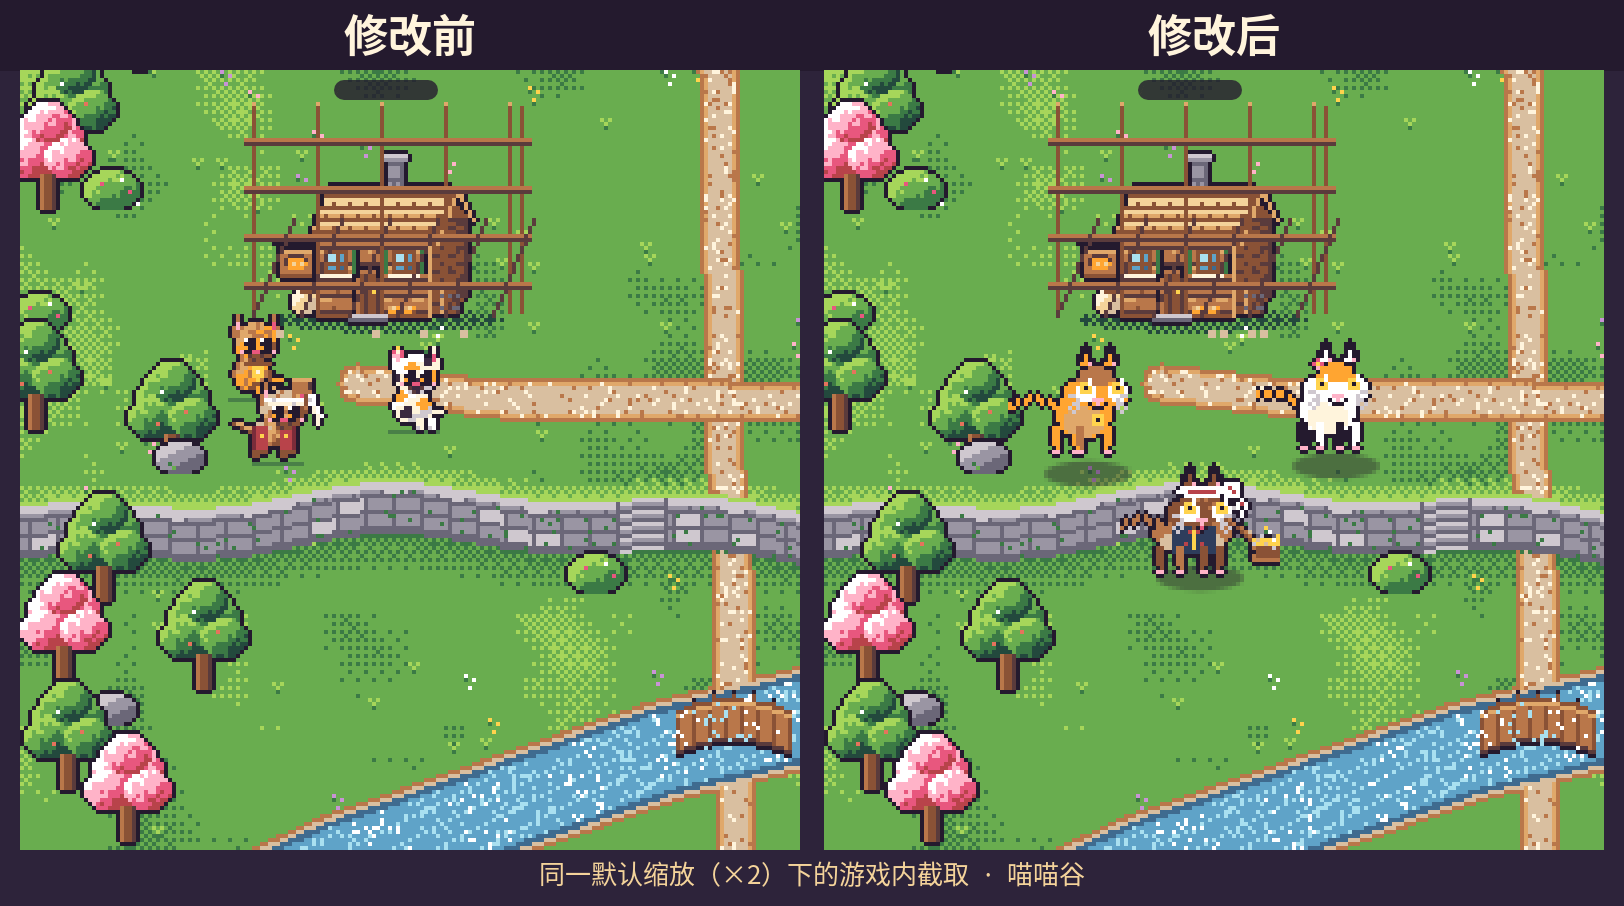
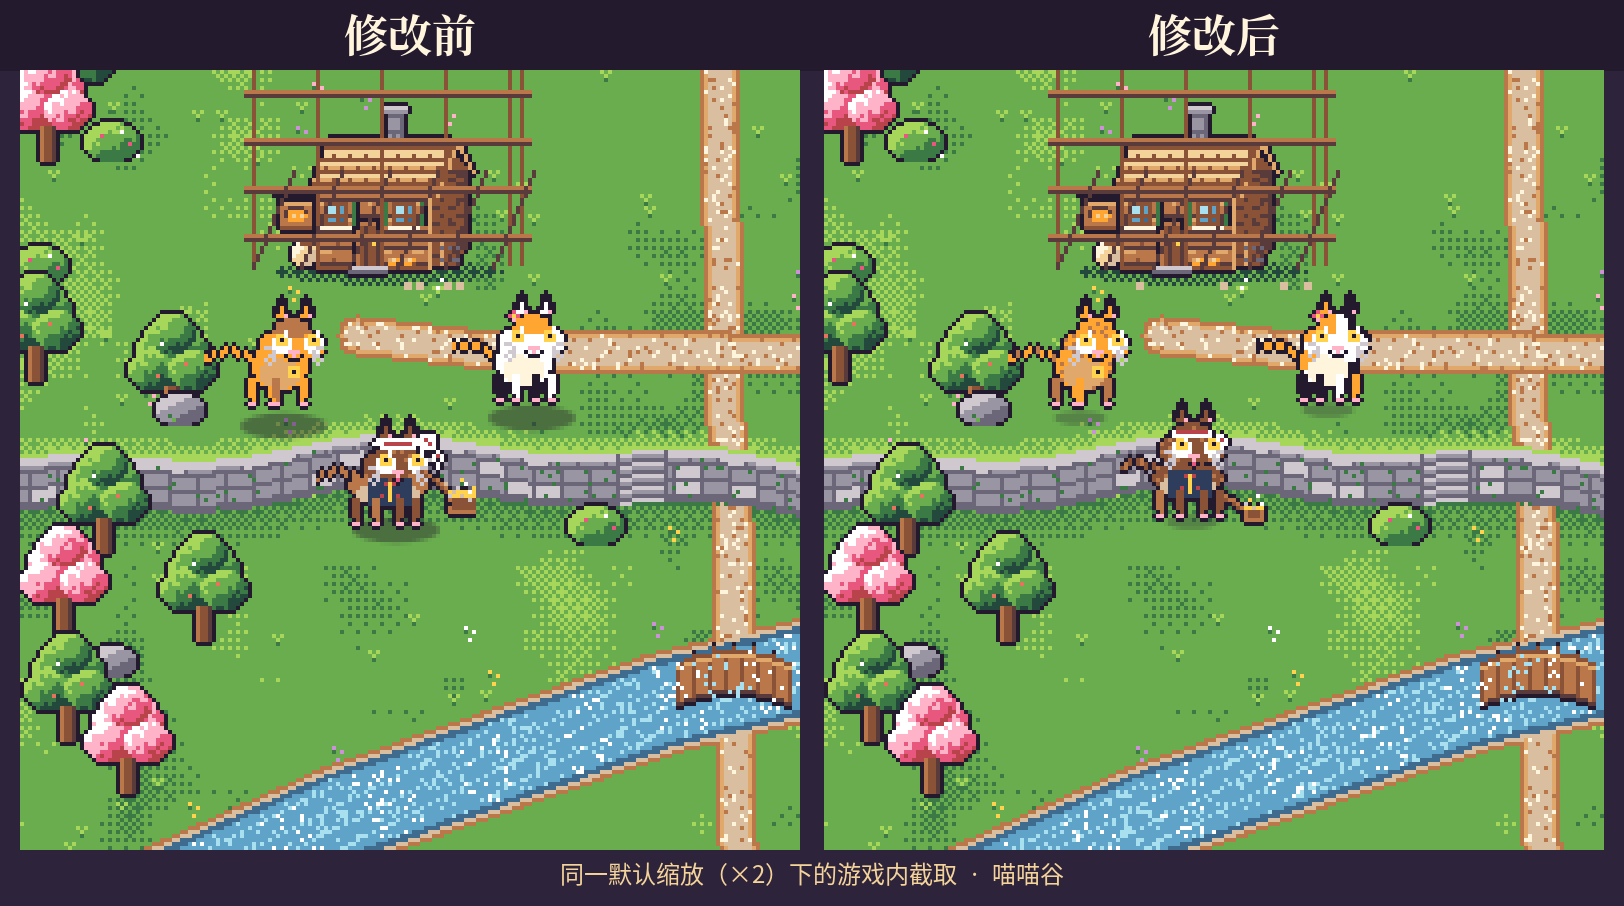
Stabilize cat coats and tidy the builder hammer, shadows, and name labels.
Coat patches are now a fixed body-anchored mask, the mallet stays in the paws except at the top of the anticipation, and names only appear well above the head when zoomed in close.

diff --git a/src/cats.js b/src/cats.js
@@ -24,29 +24,38 @@ const SHAPE={
   sturdy: {head:0,body:1,ear:0,leg:-1}
 };
 
-/* ---------- coat helpers ---------- */
-function furAt(coat,x,y,base){
+/* ---------- coat helpers ----------
+ * Pattern is evaluated in body/head-local coordinates so patches and
+ * stripes stay painted on the cat as it bobs, leans, or squashes.
+ */
+function furAt(coat,lx,ly,base,part){
   const m=coat.mark;
-  if(m==='stripes'){
-    if(((x+y*2)&3)===0 && y>2) return coat.dark;
-  }
-  if(m==='tabby'){
-    if(((x+y)&3)===0 && y>3) return coat.dark;
+  if(m==='stripes'||m==='tabby'){
+    if(part==='tail') return base;
+    if(((lx+ly*2)&3)===0 && ly>-2) return coat.dark;
+    return base;
   }
   if(m==='calico'){
-    const h=(x*7+y*13)&7;
-    if(h===0||h===1) return C.ORNG;
-    if(h===2) return C.INK;
-  }
-  if(m==='points'){
-    /* ears / muzzle / paws get dark points later by region */
-    return base;
-  }
-  if(m==='tuxedo'){
-    /* body belly is already white; face gets a white muzzle in head() */
-    return base;
+    /* Designed, stable patches — white base, orange left, black right. */
+    if(part==='head'){
+      if(ly>=2) return C.WHITE;           /* muzzle stays white */
+      if(lx<=-1 && ly<=1) return C.ORNG;  /* left forehead */
+      if(lx>=3 && ly<=0) return C.INK;    /* right crown */
+      return C.WHITE;
+    }
+    if(part==='body'){
+      if(lx<=-2 && ly<=1) return C.ORNG;  /* left shoulder */
+      if(lx>=2 && ly>=0) return C.INK;    /* right hip */
+      return C.WHITE;
+    }
+    if(part==='tail') return base; /* shaft/tip set by the tail itself */
+    if(part==='leg') return base;
+    return C.WHITE;
   }
   return base;
+}
+function furFn(coat,ax,ay,base,part){
+  return (u,v,x,y)=>furAt(coat,x-ax,y-ay,base,part);
 }
 
 /* ---------- silhouette outline (4-neigh, #241a2e) ---------- */
@@ -61,12 +70,13 @@ function shadow(s,cx,cy,rx,ry){
 /* Ears: two tall triangles. dx shifts with pose (squash/stretch). */
 function ears(s,hx,hy,coat,shp,dx,dy,foldL,foldR){
   const e=2+shp.ear;
-  const ink=C.INK, fur=coat.fur, inn=coat.ear, dark=coat.dark;
-  const point=coat.mark==='points'?dark:fur;
+  const ink=C.INK, inn=coat.ear, dark=coat.dark;
+  /* Calico: left ear orange, right ear black. Siamese: both dark points. */
   function one(side,fold){
     const x=hx+side*(3+shp.head);
     const y=hy-5+dy+(fold?1:0);
-    /* tall triangle, 2px tip */
+    const point=coat.mark==='points'?dark:coat.mark==='calico'?(side<0?C.ORNG:C.INK):coat.fur;
+    /* tall triangle, 2px tip — sits clearly above a forehead band */
     s.set(x,y-e-2,ink); s.set(x+side,y-e-1,ink);
     s.set(x,y-e-1,point);
     s.set(x-1,y-e,ink); s.set(x,y-e,point); s.set(x+1,y-e,ink);
@@ -84,11 +94,11 @@ function head(s,hx,hy,coat,shp,blink,look,mood,tilt){
   const hr=5+shp.head;
   const fur=coat.fur, dark=coat.dark, belly=coat.belly;
   const faceFur=(coat.mark==='points'||coat.mark==='tuxedo')?belly:fur;
-  s.ell(hx,hy+tilt,hr,5,furAt(coat,hx,hy,fur));
-  /* cheeks */
-  s.ell(hx-5,hy+2,3,3,furAt(coat,hx-5,hy,faceFur));
-  s.ell(hx+5,hy+2,3,3,furAt(coat,hx+5,hy,faceFur));
-  /* muzzle */
+  s.ell(hx,hy+tilt,hr,5,furFn(coat,hx,hy,fur,'head'));
+  /* cheeks — same head-local pattern, so patches don't jump */
+  s.ell(hx-5,hy+2,3,3,furFn(coat,hx,hy,faceFur,'head'));
+  s.ell(hx+5,hy+2,3,3,furFn(coat,hx,hy,faceFur,'head'));
+  /* muzzle always the face fur (white / cream), never a crawling patch */
   s.ell(hx,hy+3,4,3,faceFur);
   /* tabby M */
   if(coat.mark==='stripes'||coat.mark==='tabby'){
@@ -149,7 +159,7 @@ function body(s,bx,by,coat,shp,squash,lean){
   const w=7+shp.body+Math.max(0,squash);
   const h=6+shp.body-squash;
   const x=bx+lean;
-  s.ell(x,by,w,h,furAt(coat,x,by,coat.fur));
+  s.ell(x,by,w,h,furFn(coat,x,by,coat.fur,'body'));
   s.ell(x,by+2,Math.max(3,w-2),Math.max(3,h-2),coat.belly);
 }
 
@@ -163,8 +173,13 @@ function legs(s,bx,by,coat,shp,paws,sit){
     const lift=p.lift|0;
     const y=y0-lift;
     const l=sit?Math.max(2,len-2):len;
-    s.vl(x,y,l,furAt(coat,x,y,fur));
-    s.vl(x+(p.x>0?1:-1),y,Math.max(2,l-1),furAt(coat,x,y,fur));
+    /* Calico legs are fixed by side: left/hind dark, right/front white or orange. */
+    let col=fur;
+    if(coat.mark==='calico') col=p.x<0?C.INK:(p.x>3?C.ORNG:C.WHITE);
+    else if(coat.mark==='points') col=dark;
+    else col=furAt(coat,p.x,3,fur,'leg');
+    s.vl(x,y,l,col);
+    s.vl(x+(p.x>0?1:-1),y,Math.max(2,l-1),col);
     /* paw pad */
     s.set(x,y+l,paw); s.set(x+(p.x>0?1:-1),y+l,paw);
     if(lift>2){
@@ -176,14 +191,17 @@ function legs(s,bx,by,coat,shp,paws,sit){
 
 /* Tail. base at body rear. curve is a list of {dx,dy} from base. */
 function tail(s,bx,by,coat,pts){
-  const fur=furAt(coat,bx,by,coat.fur);
-  const tip=coat.mark==='points'?coat.dark:fur;
-  let x=bx,y=by;
+  /* Stable colours along the tail, never hashed by screen position. */
+  const n=pts.length;
   pts.forEach((p,i)=>{
-    x=bx+p.x; y=by+p.y;
-    const col=i>pts.length-3?tip:fur;
+    const x=bx+p.x, y=by+p.y;
+    let col=coat.fur;
+    if(coat.mark==='calico') col=i>=n-2?C.INK:C.ORNG;
+    else if(coat.mark==='points') col=i>=n-3?coat.dark:coat.fur;
+    else if(coat.mark==='stripes'||coat.mark==='tabby') col=(i%3===0)?coat.dark:coat.fur;
+    else if(coat.mark==='tuxedo') col=coat.fur;
     s.set(x,y,col); s.set(x,y-1,col);
-    if(i===pts.length-1){ s.set(x,y,tip); s.set(x+1,y,tip); }
+    if(i===n-1){ s.set(x,y,col); s.set(x+1,y,col); }
   });
 }
 
@@ -205,26 +223,18 @@ function accessory(s,hx,hy,acc,coat){
 
 /* ねじり鉢巻: white twist, a knot blob, two ribbon tails. */
 function hachimaki(s,hx,hy,knotSide,flop){
-  /* band around forehead, with a red twist stripe */
-  s.hl(hx-6,hy-4,13,C.WHITE);
-  s.hl(hx-5,hy-5,11,C.WHITE);
-  s.hl(hx-4,hy-3,9,C.WHITE);
-  s.hl(hx-3,hy-4,7,C.RD1);
-  /* knot blob on the side — a visible bun + two hanging tails */
-  const d=knotSide, kx=hx+d*7, ky=hy-4;
-  s.rect(kx-1,ky-2,4,4,C.WHITE);
-  s.set(kx,ky-1,C.RD1); s.set(kx+1,ky,C.RD1);
-  /* tail A */
-  s.set(kx+d*3,ky+1+flop,C.WHITE);
-  s.set(kx+d*4,ky+2+flop,C.WHITE);
-  s.set(kx+d*4,ky+3+flop,C.WHITE);
-  s.set(kx+d*3,ky+4+flop,C.WHITE);
-  s.set(kx+d*3,ky+2+flop,C.RD1);
-  /* tail B, slightly behind/offset */
-  s.set(kx+d*2,ky+2+flop,C.WHITE);
-  s.set(kx+d*2,ky+3+flop,C.WHITE);
-  s.set(kx+d*3,ky+5+flop,C.WHITE);
-  s.set(kx+d*1,ky+3+flop,C.ST2);
+  /* Clean 2px white forehead band, sitting BELOW the ear tips, not over the eyes. */
+  s.hl(hx-5,hy-3,10,C.WHITE);
+  s.hl(hx-5,hy-2,10,C.WHITE);
+  s.hl(hx-4,hy-3,8,C.RD1); /* one thin red twist */
+  /* Small knot just past the right of the band, two short tails. */
+  const d=knotSide||1, kx=hx+d*6, ky=hy-2;
+  s.set(kx,ky,C.WHITE); s.set(kx+d,ky,C.WHITE);
+  s.set(kx,ky+1,C.WHITE); s.set(kx+d,ky+1,C.RD1);
+  const f=flop||0;
+  s.set(kx+d*2,ky+1+f,C.WHITE);
+  s.set(kx+d*2,ky+2+f,C.WHITE);
+  s.set(kx+d,ky+2+f,C.WHITE);
 }
 
 /* Happi vest: indigo with a warm opening so it doesn't melt into brown fur. */
@@ -238,31 +248,23 @@ function happi(s,bx,by,lean){
   s.set(x-2,by+2,C.RD1); s.set(x+2,by+2,C.RD1);
 }
 
-/* Wooden mallet. (hx,hy) is the head center; handle goes toward (tx,ty). */
-function mallet(s,hx,hy,tx,ty){
-  /* handle */
-  const steps=8;
-  for(let i=0;i<=steps;i++){
-    const t=i/steps;
-    const x=Math.round(hx+(tx-hx)*t), y=Math.round(hy+(ty-hy)*t);
-    s.set(x,y,C.WD1); s.set(x+1,y,C.WD2);
-  }
-  /* head — large, readable block with highlight */
-  s.rect(hx-3,hy-3,8,6,C.WD2);
-  s.hl(hx-3,hy-3,8,C.GOLD);
-  s.hl(hx-2,hy-2,6,C.GOLD);
-  s.rect(hx-2,hy-1,6,3,C.WD1);
-  /* dark steel-ish bands */
-  s.set(hx-3,hy,C.INK); s.set(hx+4,hy,C.INK);
+/* Wooden mallet. Axis-aligned head so diagonals stay readable in pixel art.
+ * (hx,hy) is the head center; (gx,gy) is the grip in the paws. */
+function mallet(s,hx,hy,gx,gy){
+  hx=Math.round(hx); hy=Math.round(hy); gx=Math.round(gx); gy=Math.round(gy);
+  s.line(gx,gy,hx,hy,C.WD1);
+  s.line(gx+1,gy,hx+1,hy,C.WD2);
+  /* Compact mallet head — a small wooden block with a gold face, not a crate. */
+  s.rect(hx-2,hy-2,5,4,C.WD2);
+  s.hl(hx-2,hy-2,5,C.GOLD);
+  s.rect(hx-1,hy-1,3,2,C.WD1);
 }
 
 /* Impact puff baked into the hit frame (plus live particles). */
 function puff(s,x,y){
-  s.glow(x,y,C.SAND); s.glow(x+2,y-1,C.WHITE); s.glow(x-2,y-1,C.SAND);
-  s.glow(x+1,y-3,C.WHITE); s.glow(x-1,y-2,C.ST2);
-  s.glow(x+3,y-2,C.GOLD); s.glow(x-3,y,C.ST2);
-  s.glow(x,y-4,C.GOLD); s.glow(x+4,y-1,C.WHITE);
-  s.glow(x-4,y-3,C.SAND); s.glow(x+2,y+1,C.ST2);
+  /* Tight impact dust, kept next to the mallet head. */
+  s.glow(x,y,C.SAND); s.glow(x+2,y-1,C.WHITE); s.glow(x-2,y-1,C.ST2);
+  s.glow(x+1,y-3,C.WHITE); s.glow(x-1,y-2,C.GOLD);
 }
 
 function plank(s,x,y){
@@ -293,7 +295,7 @@ function baseCat(s,opt){
   if(opt.builder) hachimaki(s,hx,hy,opt.knotSide||1,opt.knotFlop||0);
   else if(acc) accessory(s,hx,hy,acc,coat);
   if(opt.tailFront && opt.tail) tail(s, bx+(opt.tailBaseX|| -6+lean), by+(opt.tailBaseY||0), coat, opt.tail);
-  if(opt.mallet) mallet(s, opt.mallet.hx, opt.mallet.hy, opt.mallet.tx, opt.mallet.ty);
+  if(opt.mallet) mallet(s, opt.mallet.hx, opt.mallet.hy, opt.mallet.gx, opt.mallet.gy);
   if(opt.puff) puff(s, opt.puff.x, opt.puff.y);
   if(opt.plank) plank(s, opt.plank.x, opt.plank.y);
   outline(s);
@@ -315,10 +317,10 @@ function tailS(k, sway, lift){
 function poseWalk(f,coat,shp,acc,builder){
   const s=new Spr(SW,SH);
   /* body bob: down on 1,5 ; up on 3,7 */
-  const bob=[0,3,1,-2, 0,3,1,-2][f];
-  const squash=[0,3,1,-2, 0,3,1,-2][f];
-  const lean=[1,0,0,-1, 1,0,0,-1][f];
-  const hy=11+bob, hx=22, bx=18, by=18+bob;
+  const bob=[0,1,0,-1, 0,1,0,-1][f];
+  const squash=[0,1,0,-1, 0,1,0,-1][f];
+  const lean=[1,0,0,0, 1,0,0,0][f];
+  const hy=11, hx=22, bx=18, by=18+bob; /* head stays put; only the body bobs */
   /* stride: front-right / hind-left forward on 0-1, opposite on 4-5 */
   /* paws relative to bx: hind L, hind R, fore L, fore R */
   const stride=[
@@ -331,12 +333,12 @@ function poseWalk(f,coat,shp,acc,builder){
     /*6 passing  */ {hL:-3,hLl:1, hR:-3,hRl:0, fL:2,fLl:0, fR:2,fRl:2},
     /*7 up R     */ {hL:-5,hLl:0, hR:-1,hRl:1, fL:0,fLl:0, fR:5,fRl:3}
   ][f];
-  const sway=[-3,-1,1,3, 3,1,-1,-3][f];
-  const lift=[2,1,3,5, 2,1,3,5][f];
+  const sway=[-3,-2,0,2, 3,2,0,-2][f];
+  const lift=[2,2,3,3, 2,2,3,3][f];
   baseCat(s,{
     coat,shp,acc,builder:false,
     hx,hy,bx,by,squash,lean,
-    look: lean>0?1:lean<0?-1:0,
+    look:1,
     backPaws:[
       {x:stride.hL,lift:stride.hLl},
       {x:stride.hR,lift:stride.hRl}
@@ -354,11 +356,11 @@ function poseWalk(f,coat,shp,acc,builder){
 /* Idle: breathing squash, tail sway, a clear 2-frame blink. */
 function poseIdle(f,coat,shp,acc){
   const s=new Spr(SW,SH);
-  const squash=[0,-1,-2,-1, 1,2,1,0][f]; /* inhale 1-2, exhale 4-5 */
-  const bob=[0,-1,-1,0, 1,1,0,0][f];
+  const squash=[0,0,-1,0, 1,1,0,0][f]; /* slight inhale / exhale */
+  const bob=[0,0,-1,0, 1,1,0,0][f];
   const blink=f===3?1:f===4?2:0;
   const sway=[-3,-2,0,2, 3,2,0,-2][f];
-  const hx=20, hy=12+bob, bx=18, by=19+bob;
+  const hx=20, hy=12, bx=18, by=19+bob; /* head stays put */
   baseCat(s,{
     coat,shp,acc,
     hx,hy,bx,by,squash,lean:0,
@@ -473,21 +475,23 @@ function poseSleep(f,coat,shp,acc){
  * HIT + puff, recoil, recover, settle. Mallet and knot always visible. */
 function poseHammer(f,coat,shp,acc){
   const s=new Spr(SW,SH);
-  const squash=[0,1,2,-2, 3,-1,0,0][f];
-  const bob=[0,1,2,-1, 4,0,0,0][f];
-  const lean=[0,-1,-2,3, 2,-1,0,0][f];
-  const hx=18+lean, hy=11+bob, bx=16, by=18+bob;
+  const squash=[0,0,1,0, 2,0,0,0][f];
+  const bob=[0,0,1,0, 2,0,0,0][f];
+  const lean=[0,0,-1,1, 1,0,0,0][f];
+  const hx=18, hy=11, bx=16, by=18+bob;
   const mood=f===3||f===4?1:f===2||f===5?2:0;
-  /* mallet head + handle end per frame — big clear arc */
+  /* Grip stays in the front paws. Head rides a clear arc; only f2 goes above the ears. */
+  /* Grip in the front paws, shifted right so the handle misses the face. */
+  const gx=bx+lean+8, gy=by+4-(f===1||f===2?4:0);
   const mallets=[
-    /*0 ready   */ {hx:32,hy:11, tx:24,ty:17},
-    /*1 wind-up */ {hx:28,hy:5,  tx:22,ty:13},
-    /*2 anticip */ {hx:16,hy:3,  tx:20,ty:12}, /* HIGH above / just behind the ears */
-    /*3 swing   */ {hx:34,hy:12, tx:26,ty:16}, /* out to the right, not through the face */
-    /*4 HIT     */ {hx:36,hy:26, tx:26,ty:18}, /* down in front, on the ground */
-    /*5 recoil  */ {hx:34,hy:16, tx:26,ty:15},
-    /*6 recover */ {hx:32,hy:12, tx:24,ty:17},
-    /*7 settle  */ {hx:32,hy:11, tx:24,ty:17}
+    /*0 ready   */ {hx:gx+7, hy:gy-2, gx, gy},
+    /*1 wind-up */ {hx:gx+5, hy:gy-8, gx, gy},
+    /*2 anticip */ {hx:gx+5, hy:2,    gx:gx+4, gy:gy-2}, /* strictly above the ears */
+    /*3 swing   */ {hx:gx+8, hy:gy-1, gx, gy},
+    /*4 HIT     */ {hx:gx+8, hy:29,   gx, gy}, /* on the ground, handle from the paws */
+    /*5 recoil  */ {hx:gx+7, hy:gy+2, gx, gy},
+    /*6 recover */ {hx:gx+7, hy:gy-1, gx, gy},
+    /*7 settle  */ {hx:gx+7, hy:gy-2, gx, gy}
   ][f];
   /* stance: plant on hit, rear foot back on anticipation */
   const paws=[
@@ -506,11 +510,11 @@ function poseHammer(f,coat,shp,acc){
     hx,hy,bx,by,squash,lean,
     mood, look:1, blink:0,
     allPaws:paws,
-    tail:tailS(f, f===2?2:f===4?-3:0, f===2?5:2),
+    tail:tailS(f, f===2?2:f===4?-2:0, f===2?3:2),
     tailBaseX:-7+lean, tailBaseY:-1,
     mallet:mallets,
-    puff:f===4?{x:36,y:24}:null,
-    knotSide:1, knotFlop,
+    puff:f===4?{x:mallets.hx,y:mallets.hy-2}:null,
+    knotSide:1, knotFlop:0,
     shadow:true
   });
   return s;
@@ -518,10 +522,10 @@ function poseHammer(f,coat,shp,acc){
 
 function poseCarry(f,coat,shp,acc){
   const s=new Spr(SW,SH);
-  const bob=[0,2,1,-1, 0,2,1,-1][f];
-  const squash=[0,2,1,-1, 0,2,1,-1][f];
+  const bob=[0,1,0,-1, 0,1,0,-1][f];
+  const squash=[0,1,0,-1, 0,1,0,-1][f];
   const lean=1;
-  const hx=22, hy=11+bob, bx=18, by=18+bob;
+  const hx=22, hy=11, bx=18, by=18+bob;
   const stride=[
     {hL:-6,hLl:0,hR:-1,hRl:0,fL:0,fLl:0,fR:6,fRl:0},
     {hL:-5,hLl:0,hR:-2,hRl:0,fL:1,fLl:0,fR:5,fRl:0},
@@ -540,7 +544,7 @@ function poseCarry(f,coat,shp,acc){
     frontPaws:[{x:stride.fL,lift:stride.fLl},{x:stride.fR,lift:stride.fRl}],
     tail:tailS(f,[-2,0,2,3,2,0,-2,-3][f],3),
     tailBaseX:-7, tailBaseY:-1,
-    plank:{x:8,y:12+bob},
+    plank:{x:bx-10,y:by-6},
     knotSide:1, knotFlop:0
   });
   return s;

diff --git a/src/game.js b/src/game.js
@@ -236,7 +236,8 @@ function render(dt){T+=dt;const td=tod();drawSky(td);
  for(const p of PLOTS)ents.push({y:p.y,draw:()=>drawPlot(p)});
  function catSprite(c){const F=CATS.frames(c.d?c.d.coat:'builder',c.d&&c.d.acc,c.d&&c.d.shape);const pose=F[c.pose]||F.sit;const fr=pose[c.f%pose.length][c.face>0?0:1];return fr;}
  function drawOneCat(c){const fr=catSprite(c);const cx=Math.round(c.x),cy=Math.round(c.y);
-  g.save();g.fillStyle='rgba(36,26,46,.42)';g.beginPath();g.ellipse(cx,cy+1,11,3.2,0,0,Math.PI*2);g.fill();g.restore();
+  /* Shadow sits tightly under the visual foot center (body is 2px left of AX). */
+  g.save();g.fillStyle='rgba(36,26,46,.28)';g.beginPath();g.ellipse(cx-2,cy-1,6.5,1.8,0,0,Math.PI*2);g.fill();g.restore();
   g.imageSmoothingEnabled=false;g.drawImage(fr,cx-CATS.AX,cy-CATS.AY);
   if(c.pose==='sleep'){const zt=(T*1.2+c.x)%3;const zx=c.x+6+zt*3,zy=c.y-CATS.AY+2-zt*5;g.fillStyle=PAL[C.WHITE];g.fillRect(zx,zy,3,1);g.fillRect(zx+2,zy-2,1,2);g.fillRect(zx,zy-3,3,1);}}
  for(const c of cats)if(!c.hidden)ents.push({y:c.y,draw:()=>drawOneCat(c)});
@@ -280,9 +281,10 @@ function render(dt){T+=dt;const td=tod();drawSky(td);
  stepFish(dt);drawFishFlies(dt);drawUpgradeMarks();
  // name tags / bubbles (crisp text in screen space; only when zoomed in = more detail)
  ctx.textAlign='center';ctx.textBaseline='middle';
- for(const c of cats){if(c.hidden)continue;const [sx,sy]=toScreen(c.x,c.y-CATS.AY+2);
-  if(c.bubble){c.bubble.t-=dt;if(c.bubble.t<=0)c.bubble=null;else{bubble(sx,sy-6,c.bubble.text);continue;}}
-  if(cam.z>=2.6){ctx.font='600 11px -apple-system,PingFang SC,sans-serif';const w=ctx.measureText(c.d.name).width+10;ctx.fillStyle='rgba(36,26,46,.72)';rr(sx-w/2,sy-8,w,15,7);ctx.fill();ctx.fillStyle='#fff4dc';ctx.fillText(c.d.name,sx,sy);}}
+ for(const c of cats){if(c.hidden)continue;const [sx,sy]=toScreen(c.x,c.y-CATS.AY-14);
+  if(c.bubble){c.bubble.t-=dt;if(c.bubble.t<=0)c.bubble=null;else{bubble(sx,sy,c.bubble.text);continue;}}
+  /* Names only when zoomed in close, and well above the ears so they don't cover the head. */
+  if(cam.z>=4){ctx.font='600 11px -apple-system,PingFang SC,sans-serif';const w=ctx.measureText(c.d.name).width+10;ctx.fillStyle='rgba(36,26,46,.72)';rr(sx-w/2,sy-8,w,15,7);ctx.fill();ctx.fillStyle='#fff4dc';ctx.fillText(c.d.name,sx,sy);}}
  for(const p of PLOTS){const j=S.plots[p.id].job;if(!j)continue;const r=plotRect(p);const [sx,sy]=toScreen((r.x0+r.x1)/2,r.y0-6);const k=Math.min(1,(now()-j.start)/j.dur);
   ctx.fillStyle='rgba(36,26,46,.8)';rr(sx-26,sy-5,52,10,5);ctx.fill();ctx.fillStyle='#ffd34d';rr(sx-24,sy-3,48*k,6,3);ctx.fill();}
  if(REC&&window.FINGERS)for(const f of window.FINGERS){ctx.fillStyle='rgba(255,255,255,.35)';ctx.strokeStyle='rgba(255,255,255,.9)';ctx.lineWidth=2;ctx.beginPath();ctx.arc(f[0],f[1],18,0,7);ctx.fill();ctx.stroke();}

diff --git a/sw.js b/sw.js
@@ -1,5 +1,5 @@
 // 喵喵谷 service worker. Bump CACHE when shipping a new build so old caches are dropped.
-const CACHE = 'meow-valley-v4';
+const CACHE = 'meow-valley-v5';
 const ASSETS = [
   './',
   './index.html',
